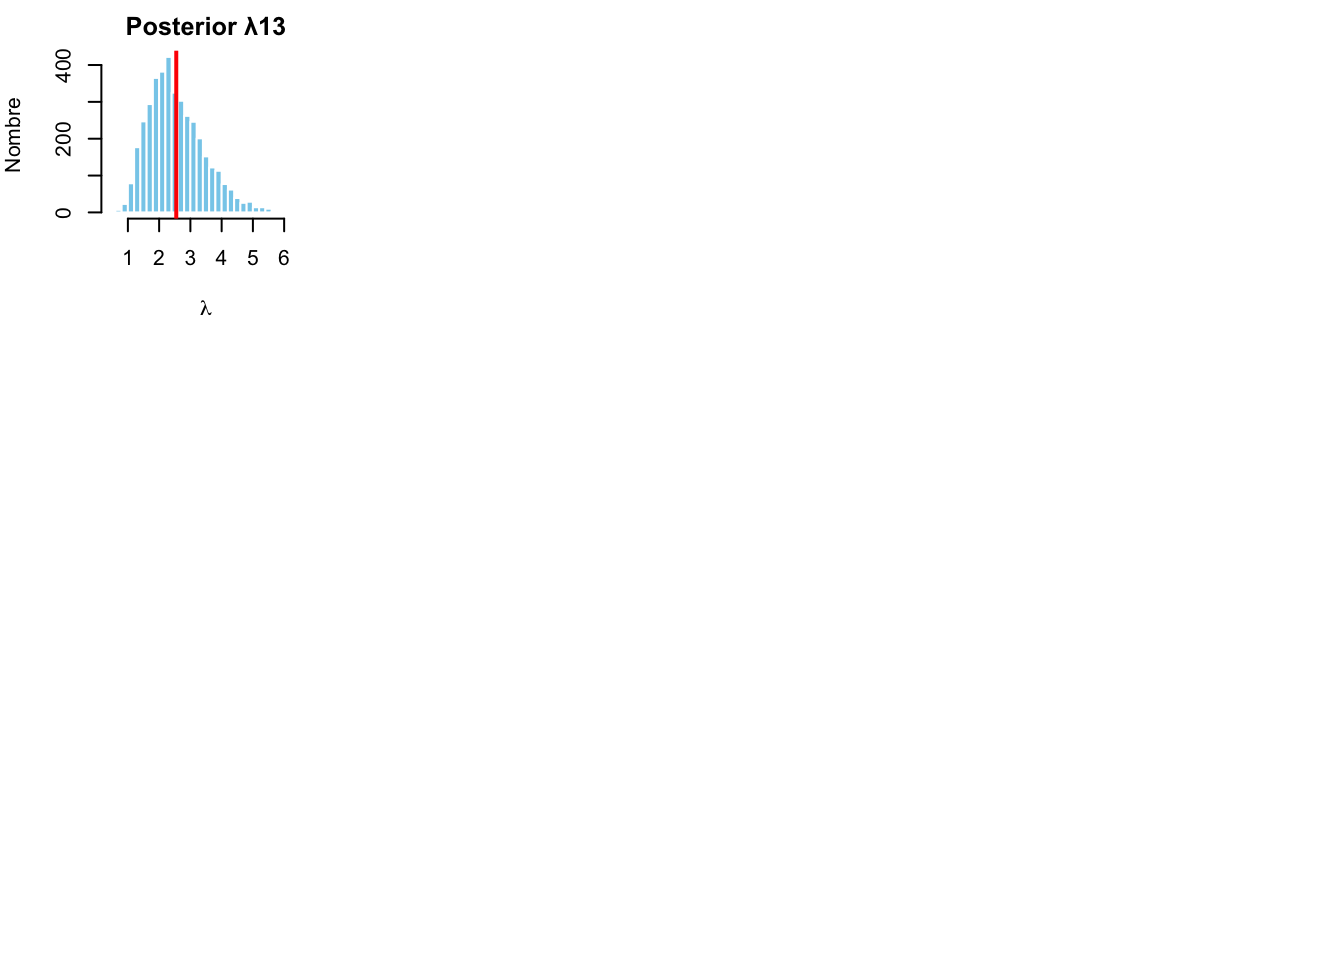
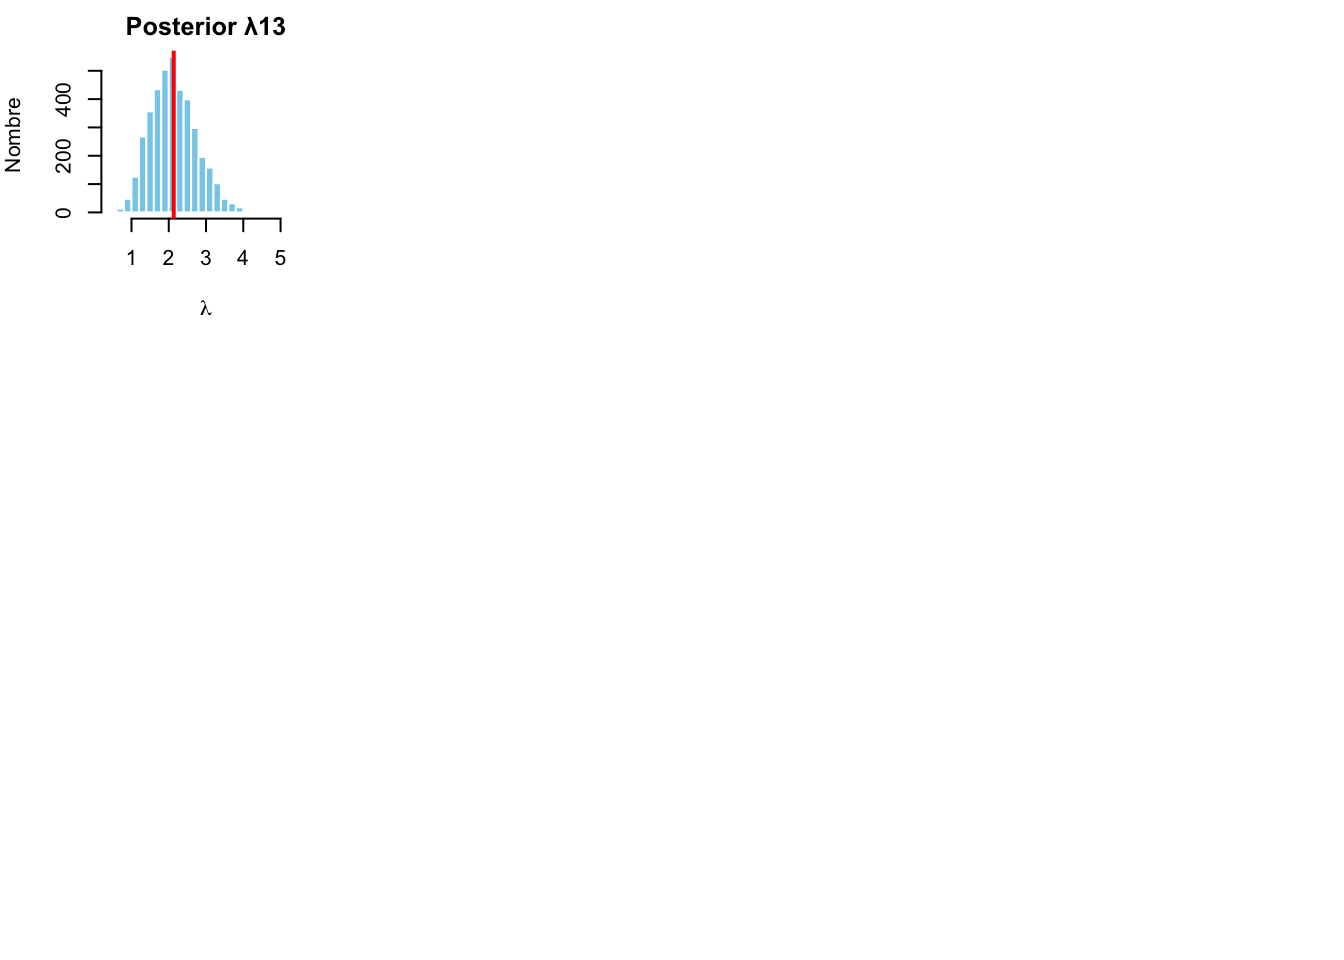
add file

Changed region(s): [[0.0938, 0.0625, 0.2188, 0.2812], [0.0312, 0.0625, 0.0625, 0.1875]]

diff --git a/docs/Part2_1.html b/docs/Part2_1.html
@@ -174,10 +174,6 @@ window.Quarto = {
     <a class="nav-link" href="./Part3.html"> 
 <span class="menu-text">Modèle Extension</span></a>
   </li>  
-  <li class="nav-item">
-    <a class="nav-link" href="./Part4.qmd"> 
-<span class="menu-text">Conclusion</span></a>
-  </li>  
 </ul>
             <ul class="navbar-nav navbar-nav-scroll ms-auto">
   <li class="nav-item compact">
@@ -301,7 +297,7 @@ Y_{i,j} \mid \lambda_i \sim \text{Poisson}(\lambda_i),
 <span id="cb1-25"><a href="#cb1-25" aria-hidden="true" tabindex="-1"></a>df<span class="sc">$</span>j <span class="ot">&lt;-</span> <span class="fu">as.integer</span>(<span class="fu">factor</span>(df<span class="sc">$</span>stateProvince))</span>
 <span id="cb1-26"><a href="#cb1-26" aria-hidden="true" tabindex="-1"></a>df[, <span class="fu">c</span>(<span class="st">"year"</span>, <span class="st">"stateProvince"</span>, <span class="st">"i"</span>, <span class="st">"j"</span>)]</span></code><button title="Copy to Clipboard" class="code-copy-button"><i class="bi"></i></button></pre></div>
 <div class="cell-output cell-output-stdout">
-<pre><code># A tibble: 87 × 4
+<pre><code># A tibble: 89 × 4
     year stateProvince                  i     j
    &lt;int&gt; &lt;chr&gt;                      &lt;int&gt; &lt;int&gt;
  1  2014 Languedoc-Roussillon           1    12
@@ -314,7 +310,7 @@ Y_{i,j} \mid \lambda_i \sim \text{Poisson}(\lambda_i),
  8  2019 Aquitaine                      6     2
  9  2019 Corse                          6     8
 10  2019 Languedoc-Roussillon           6    12
-# ℹ 77 more rows</code></pre>
+# ℹ 79 more rows</code></pre>
 </div>
 </div>
 <div class="cell">
@@ -558,36 +554,36 @@ Y_{i,j} \mid \lambda_i \sim \text{Poisson}(\lambda_i),
   Chaîne 1 | Progression : 50000 / 100000 (50%) | Taux d'acc. : 98.6%
   Chaîne 1 | Progression : 75000 / 100000 (75%) | Taux d'acc. : 98.6%
   Chaîne 1 | Progression : 100000 / 100000 (100%) | Taux d'acc. : 98.6%
-=&gt; Chaîne 1 terminée avec succès. Taux d'acceptation final : 98.60%
-Chaîne 1 terminée en 1.04 minutes.
+=&gt; Chaîne 1 terminée avec succès. Taux d'acceptation final : 98.59%
+Chaîne 1 terminée en 1.01 minutes.
 Exécution de la Chaîne 2...
   Chaîne 2 | Progression : 25000 / 100000 (25%) | Taux d'acc. : 98.5%
   Chaîne 2 | Progression : 50000 / 100000 (50%) | Taux d'acc. : 98.6%
-  Chaîne 2 | Progression : 75000 / 100000 (75%) | Taux d'acc. : 98.7%
+  Chaîne 2 | Progression : 75000 / 100000 (75%) | Taux d'acc. : 98.6%
   Chaîne 2 | Progression : 100000 / 100000 (100%) | Taux d'acc. : 98.6%
-=&gt; Chaîne 2 terminée avec succès. Taux d'acceptation final : 98.64%
-Chaîne 2 terminée en 1.08 minutes.
+=&gt; Chaîne 2 terminée avec succès. Taux d'acceptation final : 98.63%
+Chaîne 2 terminée en 0.99 minutes.
 Exécution de la Chaîne 3...
   Chaîne 3 | Progression : 25000 / 100000 (25%) | Taux d'acc. : 98.6%
   Chaîne 3 | Progression : 50000 / 100000 (50%) | Taux d'acc. : 98.6%
   Chaîne 3 | Progression : 75000 / 100000 (75%) | Taux d'acc. : 98.6%
   Chaîne 3 | Progression : 100000 / 100000 (100%) | Taux d'acc. : 98.6%
 =&gt; Chaîne 3 terminée avec succès. Taux d'acceptation final : 98.61%
-Chaîne 3 terminée en 1.12 minutes.
+Chaîne 3 terminée en 0.99 minutes.
 Exécution de la Chaîne 4...
   Chaîne 4 | Progression : 25000 / 100000 (25%) | Taux d'acc. : 98.6%
   Chaîne 4 | Progression : 50000 / 100000 (50%) | Taux d'acc. : 98.6%
   Chaîne 4 | Progression : 75000 / 100000 (75%) | Taux d'acc. : 98.6%
   Chaîne 4 | Progression : 100000 / 100000 (100%) | Taux d'acc. : 98.6%
-=&gt; Chaîne 4 terminée avec succès. Taux d'acceptation final : 98.65%
+=&gt; Chaîne 4 terminée avec succès. Taux d'acceptation final : 98.63%
 Chaîne 4 terminée en 1.01 minutes.
 Exécution de la Chaîne 5...
   Chaîne 5 | Progression : 25000 / 100000 (25%) | Taux d'acc. : 98.7%
   Chaîne 5 | Progression : 50000 / 100000 (50%) | Taux d'acc. : 98.6%
   Chaîne 5 | Progression : 75000 / 100000 (75%) | Taux d'acc. : 98.6%
   Chaîne 5 | Progression : 100000 / 100000 (100%) | Taux d'acc. : 98.6%
-=&gt; Chaîne 5 terminée avec succès. Taux d'acceptation final : 98.59%
-Chaîne 5 terminée en 0.98 minutes.</code></pre>
+=&gt; Chaîne 5 terminée avec succès. Taux d'acceptation final : 98.60%
+Chaîne 5 terminée en 1.00 minutes.</code></pre>
 </div>
 </div>
 <div class="cell">
@@ -672,8 +668,8 @@ Chaîne 5 terminée en 0.98 minutes.</code></pre>
   Chaîne 1 | Progression : 2500 / 5000 (50%) | Taux d'acc. : 98.9%
   Chaîne 1 | Progression : 3750 / 5000 (75%) | Taux d'acc. : 98.7%
   Chaîne 1 | Progression : 5000 / 5000 (100%) | Taux d'acc. : 98.5%
-=&gt; Chaîne 1 terminée avec succès. Taux d'acceptation final : 98.48%
-Chaîne 1 terminée en 0.07 minutes.</code></pre>
+=&gt; Chaîne 1 terminée avec succès. Taux d'acceptation final : 98.46%
+Chaîne 1 terminée en 0.05 minutes.</code></pre>
 </div>
 </div>
 <div class="cell">
@@ -768,19 +764,19 @@ Chaîne 1 terminée en 0.07 minutes.</code></pre>
 <span id="cb17-14"><a href="#cb17-14" aria-hidden="true" tabindex="-1"></a><span class="fu">head</span>(<span class="fu">round</span>(samples_matrix,<span class="dv">5</span>))</span></code><button title="Copy to Clipboard" class="code-copy-button"><i class="bi"></i></button></pre></div>
 <div class="cell-output cell-output-stdout">
 <pre><code>          λ1      λ2      λ3      λ4      λ5      λ6       λ7      λ8      λ9
-[1,] 2.22549 1.57540 3.53341 2.78969 3.83613 3.75956 10.02922 4.73288 7.64421
-[2,] 1.36835 0.82759 0.96406 1.56439 4.02084 3.02927 10.27240 4.52016 8.25402
-[3,] 2.95178 3.64588 3.28480 1.44615 2.63148 3.90580 10.49360 4.46000 8.38360
-[4,] 2.92732 1.73453 1.49486 1.37791 1.42520 2.49786  9.53165 4.86190 8.07620
-[5,] 3.28738 2.96772 3.60250 0.97686 1.36815 4.15500 11.46805 4.47156 7.97902
-[6,] 2.70567 1.34390 0.84092 2.20425 3.84616 3.06492  9.45293 4.32563 7.71374
+[1,] 2.17583 1.54741 3.42926 2.71449 3.79049 3.79115 10.06495 4.76428 7.65873
+[2,] 1.32318 0.79728 0.90263 1.44156 3.80469 3.04311 10.28150 4.54020 8.26568
+[3,] 3.00040 3.68854 3.37778 1.52329 2.70230 3.95543 10.53657 4.46155 8.39005
+[4,] 2.85303 1.65963 1.40959 1.37263 1.42587 2.47779  9.53242 4.83528 8.07520
+[5,] 3.19667 2.90168 3.52401 0.94596 1.34644 4.15175 11.45194 4.47669 7.99076
+[6,] 2.64586 1.30821 0.80180 2.18221 3.83612 3.16682  9.47452 4.32435 7.72265
           λ10     λ11     λ12     λ13       μ     σ^2
-[1,] 27.05457 6.54593 6.49277 2.36405 1.40820 0.73559
-[2,] 26.68365 7.59368 7.96611 2.00641 1.37609 1.03807
-[3,] 25.55437 8.00051 5.65573 2.91256 1.31426 0.85652
-[4,] 22.06189 7.12890 7.33324 2.23372 1.67882 1.24661
-[5,] 25.11261 6.81901 6.11258 1.90140 1.18652 1.25056
-[6,] 26.55168 6.58627 8.28234 1.92388 1.34736 1.22977</code></pre>
+[1,] 27.06473 6.55422 6.54379 3.35530 1.43551 0.74638
+[2,] 26.69840 7.59769 8.08469 2.47053 1.41700 1.09658
+[3,] 25.56154 8.00237 5.71220 2.24972 1.34875 0.86834
+[4,] 22.06601 7.12903 7.28081 2.20411 1.64465 1.30605
+[5,] 25.12336 6.83010 6.22600 2.83137 1.29732 1.30109
+[6,] 26.56112 6.59239 8.32834 2.72348 1.44710 1.27924</code></pre>
 </div>
 </div>
 <div class="cell">
@@ -848,21 +844,21 @@ Chaîne 1 terminée en 0.07 minutes.</code></pre>
 <span id="cb21-18"><a href="#cb21-18" aria-hidden="true" tabindex="-1"></a><span class="fu">print</span>(results)</span></code><button title="Copy to Clipboard" class="code-copy-button"><i class="bi"></i></button></pre></div>
 <div class="cell-output cell-output-stdout">
 <pre><code>    Parameter   Estimate   CI_lower  CI_upper
-λ1         λ1  2.6078478  0.7028155  5.960371
-λ2         λ2  1.9792655  0.3911351  4.916392
-λ3         λ3  1.9710811  0.4307674  4.671943
-λ4         λ4  1.5888592  0.4265765  3.495845
-λ5         λ5  2.3595868  0.8079957  4.671286
-λ6         λ6  3.4450481  2.0449796  5.121073
-λ7         λ7 10.3107094  8.0811543 12.831075
-λ8         λ8  5.2747130  3.9122484  6.813946
-λ9         λ9  8.4831448  6.8465976 10.216663
-λ10       λ10 26.6988422 24.1396825 29.470644
-λ11       λ11  7.1663027  5.8936074  8.602491
-λ12       λ12  6.8073088  5.6892245  8.024929
-λ13       λ13  2.5479177  1.1839058  4.614900
-μ           μ  1.3716713  0.7170287  1.929399
-σ^2       σ^2  0.9829925  0.6291150  1.490007</code></pre>
+λ1         λ1  2.5840567  0.7102412  5.875979
+λ2         λ2  1.9559413  0.3854610  4.905883
+λ3         λ3  1.9548799  0.4137098  4.706506
+λ4         λ4  1.5728169  0.4206321  3.504243
+λ5         λ5  2.3465125  0.8022723  4.686968
+λ6         λ6  3.4393435  2.0378322  5.130146
+λ7         λ7 10.3111392  8.0858411 12.844453
+λ8         λ8  5.2771550  3.9088180  6.824143
+λ9         λ9  8.4817925  6.8570452 10.219580
+λ10       λ10 26.7008255 24.1433423 29.481854
+λ11       λ11  7.1658183  5.8921874  8.600457
+λ12       λ12  6.8585157  5.7313904  8.088596
+λ13       λ13  2.1329726  1.0963127  3.431706
+μ           μ  1.3552806  0.7246796  1.923366
+σ^2       σ^2  0.9926103  0.6394064  1.529252</code></pre>
 </div>
 </div>
 <div class="cell">

diff --git a/docs/Part1.html b/docs/Part1.html
@@ -279,15 +279,15 @@ pre > code.sourceCode > span > a:first-child::before { text-decoration: underlin
 <span id="cb5-5"><a href="#cb5-5" aria-hidden="true" tabindex="-1"></a></span>
 <span id="cb5-6"><a href="#cb5-6" aria-hidden="true" tabindex="-1"></a><span class="fu">nrow</span>(summary_table)</span></code><button title="Copy to Clipboard" class="code-copy-button"><i class="bi"></i></button></pre></div>
 <div class="cell-output cell-output-stdout">
-<pre><code>[1] 87</code></pre>
+<pre><code>[1] 89</code></pre>
 </div>
 </div>
 <div class="cell">
 <div class="sourceCode cell-code" id="cb7"><pre class="sourceCode r code-with-copy"><code class="sourceCode r"><span id="cb7-1"><a href="#cb7-1" aria-hidden="true" tabindex="-1"></a><span class="fu">library</span>(DT)</span>
 <span id="cb7-2"><a href="#cb7-2" aria-hidden="true" tabindex="-1"></a><span class="fu">datatable</span>(summary_table)</span></code><button title="Copy to Clipboard" class="code-copy-button"><i class="bi"></i></button></pre></div>
 <div class="cell-output-display">
-<div class="datatables html-widget html-fill-item" id="htmlwidget-12dfb77bc582bd860c66" style="width:100%;height:auto;"></div>
-<script type="application/json" data-for="htmlwidget-12dfb77bc582bd860c66">{"x":{"filter":"none","vertical":false,"data":[["1","2","3","4","5","6","7","8","9","10","11","12","13","14","15","16","17","18","19","20","21","22","23","24","25","26","27","28","29","30","31","32","33","34","35","36","37","38","39","40","41","42","43","44","45","46","47","48","49","50","51","52","53","54","55","56","57","58","59","60","61","62","63","64","65","66","67","68","69","70","71","72","73","74","75","76","77","78","79","80","81","82","83","84","85","86","87"],[2014,2015,2016,2017,2017,2018,2018,2019,2019,2019,2019,2019,2020,2020,2020,2020,2020,2020,2021,2021,2021,2021,2021,2021,2021,2021,2022,2022,2022,2022,2022,2022,2022,2022,2022,2022,2022,2023,2023,2023,2023,2023,2023,2023,2023,2023,2023,2023,2023,2023,2023,2024,2024,2024,2024,2024,2024,2024,2024,2024,2024,2024,2024,2024,2024,2025,2025,2025,2025,2025,2025,2025,2025,2025,2025,2025,2025,2025,2025,2025,2025,2025,2025,2025,2026,2026,2026],["Languedoc-Roussillon","Provence-Alpes-Côte d'Azur","Provence-Alpes-Côte d'Azur","Languedoc-Roussillon","Midi-Pyrénées","Languedoc-Roussillon","Midi-Pyrénées","Aquitaine","Corse","Languedoc-Roussillon","Provence-Alpes-Côte d'Azur","Rhône-Alpes","Aquitaine","Corse","Languedoc-Roussillon","Midi-Pyrénées","Provence-Alpes-Côte d'Azur","Rhône-Alpes","Alsace","Languedoc-Roussillon","Midi-Pyrénées","Occitanie","Provence-Alpes-Côte d'Azur","Pyrénées-Atlantiques (64)","Rhône (69)","Rhône-Alpes","Alsace","Aquitaine","Corse","Languedoc-Roussillon","Midi-Pyrénées","Occitanie","Pays de la Loire","Poitou-Charentes","Provence-Alpes-Côte d'Azur","Rhône-Alpes","Île-de-France","Aquitaine","Auvergne","Bourgogne","Centre","Corse","Dordogne (24)","Languedoc-Roussillon","Midi-Pyrénées","Occitanie","Pays de la Loire","Poitou-Charentes","Provence-Alpes-Côte d'Azur","Rhône-Alpes","Île-de-France","Alsace","Aquitaine","Auvergne","Bourgogne","Centre","Corse","Languedoc-Roussillon","Midi-Pyrénées","Occitanie","Pays de la Loire","Poitou-Charentes","Provence-Alpes-Côte d'Azur","Rhône-Alpes","Île-de-France","Alsace","Aquitaine","Ardèche (07)","Auvergne","Bourgogne","Corrèze (19)","Corse","Côte-d'Or (21)","Dordogne (24)","Languedoc-Roussillon","Lot (46)","Midi-Pyrénées","Pays de la Loire","Poitou-Charentes","Provence-Alpes-Côte d'Azur","Rhône-Alpes","Savoie (73)","Vaucluse (84)","Île-de-France","Languedoc-Roussillon","Provence-Alpes-Côte d'Azur","Rhône-Alpes"],[2,1,1,1,1,2,2,2,1,2,6,6,5,2,6,15,14,21,1,11,4,1,10,1,1,13,4,16,4,16,6,3,1,2,24,16,3,4,1,3,1,2,1,19,11,252,2,8,20,35,17,6,4,1,1,1,3,21,6,7,1,4,14,24,8,7,9,2,1,1,1,7,1,1,19,1,15,3,4,24,23,1,1,9,4,1,2]],"container":"<table class=\"display\">\n  <thead>\n    <tr>\n      <th> <\/th>\n      <th>year<\/th>\n      <th>stateProvince<\/th>\n      <th>n_occurrences<\/th>\n    <\/tr>\n  <\/thead>\n<\/table>","options":{"columnDefs":[{"className":"dt-right","targets":[1,3]},{"orderable":false,"targets":0},{"name":" ","targets":0},{"name":"year","targets":1},{"name":"stateProvince","targets":2},{"name":"n_occurrences","targets":3}],"order":[],"autoWidth":false,"orderClasses":false}},"evals":[],"jsHooks":[]}</script>
+<div class="datatables html-widget html-fill-item" id="htmlwidget-90db4ee80741391b6672" style="width:100%;height:auto;"></div>
+<script type="application/json" data-for="htmlwidget-90db4ee80741391b6672">{"x":{"filter":"none","vertical":false,"data":[["1","2","3","4","5","6","7","8","9","10","11","12","13","14","15","16","17","18","19","20","21","22","23","24","25","26","27","28","29","30","31","32","33","34","35","36","37","38","39","40","41","42","43","44","45","46","47","48","49","50","51","52","53","54","55","56","57","58","59","60","61","62","63","64","65","66","67","68","69","70","71","72","73","74","75","76","77","78","79","80","81","82","83","84","85","86","87","88","89"],[2014,2015,2016,2017,2017,2018,2018,2019,2019,2019,2019,2019,2020,2020,2020,2020,2020,2020,2021,2021,2021,2021,2021,2021,2021,2021,2022,2022,2022,2022,2022,2022,2022,2022,2022,2022,2022,2023,2023,2023,2023,2023,2023,2023,2023,2023,2023,2023,2023,2023,2023,2024,2024,2024,2024,2024,2024,2024,2024,2024,2024,2024,2024,2024,2024,2025,2025,2025,2025,2025,2025,2025,2025,2025,2025,2025,2025,2025,2025,2025,2025,2025,2025,2025,2026,2026,2026,2026,2026],["Languedoc-Roussillon","Provence-Alpes-Côte d'Azur","Provence-Alpes-Côte d'Azur","Languedoc-Roussillon","Midi-Pyrénées","Languedoc-Roussillon","Midi-Pyrénées","Aquitaine","Corse","Languedoc-Roussillon","Provence-Alpes-Côte d'Azur","Rhône-Alpes","Aquitaine","Corse","Languedoc-Roussillon","Midi-Pyrénées","Provence-Alpes-Côte d'Azur","Rhône-Alpes","Alsace","Languedoc-Roussillon","Midi-Pyrénées","Occitanie","Provence-Alpes-Côte d'Azur","Pyrénées-Atlantiques (64)","Rhône (69)","Rhône-Alpes","Alsace","Aquitaine","Corse","Languedoc-Roussillon","Midi-Pyrénées","Occitanie","Pays de la Loire","Poitou-Charentes","Provence-Alpes-Côte d'Azur","Rhône-Alpes","Île-de-France","Aquitaine","Auvergne","Bourgogne","Centre","Corse","Dordogne (24)","Languedoc-Roussillon","Midi-Pyrénées","Occitanie","Pays de la Loire","Poitou-Charentes","Provence-Alpes-Côte d'Azur","Rhône-Alpes","Île-de-France","Alsace","Aquitaine","Auvergne","Bourgogne","Centre","Corse","Languedoc-Roussillon","Midi-Pyrénées","Occitanie","Pays de la Loire","Poitou-Charentes","Provence-Alpes-Côte d'Azur","Rhône-Alpes","Île-de-France","Alsace","Aquitaine","Ardèche (07)","Auvergne","Bourgogne","Corrèze (19)","Corse","Côte-d'Or (21)","Dordogne (24)","Languedoc-Roussillon","Lot (46)","Midi-Pyrénées","Pays de la Loire","Poitou-Charentes","Provence-Alpes-Côte d'Azur","Rhône-Alpes","Savoie (73)","Vaucluse (84)","Île-de-France","Aquitaine","Languedoc-Roussillon","Midi-Pyrénées","Provence-Alpes-Côte d'Azur","Rhône-Alpes"],[2,1,1,1,1,2,2,2,1,2,6,6,5,2,6,15,14,21,1,11,4,1,10,1,1,13,4,16,4,16,6,3,1,2,24,16,3,4,1,3,1,2,1,19,11,252,2,8,20,35,17,6,4,1,1,1,3,21,6,7,1,4,14,24,8,7,9,2,1,1,1,7,1,1,19,1,15,4,4,24,23,1,1,9,1,4,2,1,2]],"container":"<table class=\"display\">\n  <thead>\n    <tr>\n      <th> <\/th>\n      <th>year<\/th>\n      <th>stateProvince<\/th>\n      <th>n_occurrences<\/th>\n    <\/tr>\n  <\/thead>\n<\/table>","options":{"columnDefs":[{"className":"dt-right","targets":[1,3]},{"orderable":false,"targets":0},{"name":" ","targets":0},{"name":"year","targets":1},{"name":"stateProvince","targets":2},{"name":"n_occurrences","targets":3}],"order":[],"autoWidth":false,"orderClasses":false}},"evals":[],"jsHooks":[]}</script>
 </div>
 </div>
 </section>

diff --git a/docs/Part3.html b/docs/Part3.html
@@ -174,10 +174,6 @@ window.Quarto = {
     <a class="nav-link active" href="./Part3.html" aria-current="page"> 
 <span class="menu-text">Modèle Extension</span></a>
   </li>  
-  <li class="nav-item">
-    <a class="nav-link" href="./Part4.qmd"> 
-<span class="menu-text">Conclusion</span></a>
-  </li>  
 </ul>
             <ul class="navbar-nav navbar-nav-scroll ms-auto">
   <li class="nav-item compact">
@@ -734,7 +730,7 @@ Configuration : n_iter = 5000, eps = 0.0100, L = 100
   Chaîne 1 | Progression : 4500 / 5000 (90%) | Taux d'acc. : 98.9%
   Chaîne 1 | Progression : 5000 / 5000 (100%) | Taux d'acc. : 99.0%
 =&gt; Chaîne 1 terminée avec succès. Taux d'acceptation final : 98.96%
-=&gt; Chaîne 1 terminée en 1.79 minutes.</code></pre>
+=&gt; Chaîne 1 terminée en 1.75 minutes.</code></pre>
 </div>
 </div>
 </section>
